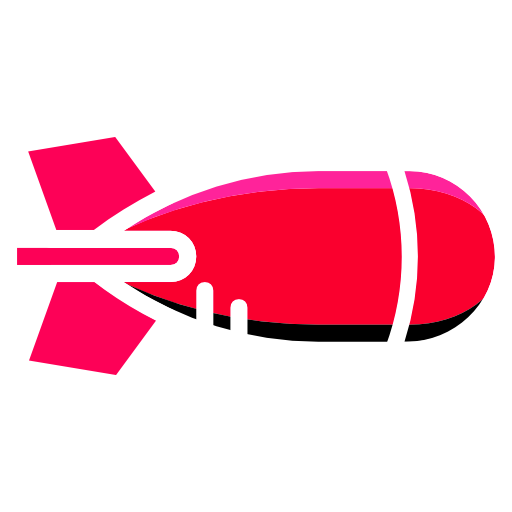
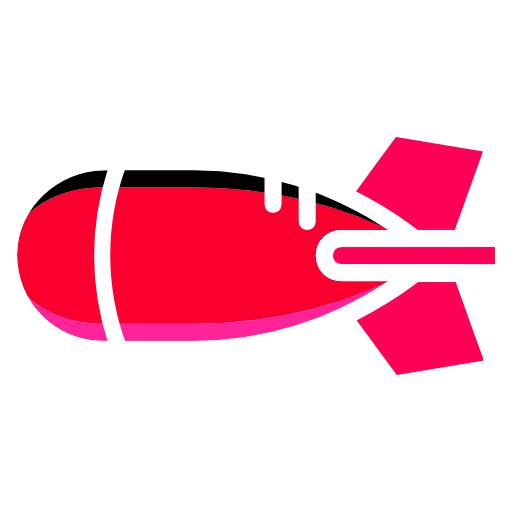
player bombs firing

Changed region(s): [[0.0312, 0.25, 0.9688, 0.75]]

diff --git a/src/HonkPooper/HonkPooper/MainPage.xaml.cs b/src/HonkPooper/HonkPooper/MainPage.xaml.cs
@@ -93,11 +93,118 @@ namespace HonkPooper
 
             if (_controller.IsAttacking)
             {
-                GeneratePlayerBombGroundInScene();
+                if (_scene.Children.OfType<Boss>().Any(x => x.IsAnimating && x.IsAttacking))
+                {
+                    GeneratePlayerBombInScene();
+                }
+                else
+                {
+                    GeneratePlayerBombGroundInScene();
+                }
+                
                 _controller.IsAttacking = false;
             }
 
             return true;
+        }
+
+        #endregion
+
+        #region PlayerBomb
+
+        public bool SpawnPlayerBombsInScene()
+        {
+            for (int i = 0; i < 3; i++)
+            {
+                PlayerBomb bomb = new(
+                    animateAction: AnimatePlayerBomb,
+                    recycleAction: RecyclePlayerBomb,
+                    downScaling: _scene.DownScaling);
+
+                bomb.SetPosition(
+                    left: -500,
+                    top: -500,
+                    z: 7);
+
+                _scene.AddToScene(bomb);
+
+                SpawnDropShadowInScene(source: bomb);
+            }
+
+            return true;
+        }
+
+        public bool GeneratePlayerBombInScene()
+        {
+            if (_scene.Children.OfType<Boss>().Any(x => x.IsAnimating && x.IsAttacking) &&
+                _scene.Children.OfType<PlayerBomb>().FirstOrDefault(x => x.IsAnimating == false) is PlayerBomb bomb)
+            {
+                bomb.Reset();
+                bomb.IsAnimating = true;
+                bomb.AwaitingPop = true;
+
+                bomb.SetRotation(33);
+
+                bomb.Reposition(
+                    Player: _player,
+                    downScaling: _scene.DownScaling);
+
+                SyncDropShadow(bomb);
+
+                Console.WriteLine("Player Bomb dropped.");
+
+                return true;
+            }
+
+            return false;
+        }
+
+        public bool AnimatePlayerBomb(Construct bomb)
+        {
+            PlayerBomb playerBomb = bomb as PlayerBomb;
+
+            var speed = _scene.Speed + bomb.SpeedOffset;
+
+            MoveConstruct(construct: bomb, speed: speed, isReverse: true);
+
+            if (playerBomb.IsBlasting)
+            {
+                bomb.Expand();
+                bomb.Fade(0.02);
+
+                DropShadow dropShadow = _scene.Children.OfType<DropShadow>().First(x => x.Id == bomb.Id);
+                dropShadow.Opacity = bomb.Opacity;
+
+            }
+            else
+            {
+                if (_scene.Children.OfType<Boss>().FirstOrDefault(x => x.IsAnimating && x.IsAttacking) is Boss boss)
+                {
+                    if (playerBomb.GetCloseHitBox().IntersectsWith(boss.GetCloseHitBox()))
+                        playerBomb.SetBlast();
+                }
+            }
+
+            return true;
+        }
+
+        public bool RecyclePlayerBomb(Construct bomb)
+        {
+            var hitbox = bomb.GetHitBox();
+
+            // if bomb is blasted and faed or goes out of scene bounds
+            if (bomb.IsFadingComplete || hitbox.Left > _scene.Width || hitbox.Right < 0 || hitbox.Top < 0 || hitbox.Bottom > _scene.Height)
+            {
+                bomb.IsAnimating = false;
+
+                bomb.SetPosition(
+                    left: -500,
+                    top: -500);
+
+                return true;
+            }
+
+            return false;
         }
 
         #endregion
@@ -143,7 +250,7 @@ namespace HonkPooper
 
                 SyncDropShadow(bomb);
 
-                Console.WriteLine("Bomb dropped.");
+                Console.WriteLine("Player Ground Bomb dropped.");
 
                 return true;
             }
@@ -832,7 +939,7 @@ namespace HonkPooper
 
                 SyncDropShadow(bomb);
 
-                Console.WriteLine("Bomb dropped.");
+                Console.WriteLine("Boss Bomb dropped.");
 
                 return true;
             }
@@ -952,11 +1059,20 @@ namespace HonkPooper
 
         #region Construct
 
-        private void MoveConstruct(Construct construct, double speed)
+        private void MoveConstruct(Construct construct, double speed, bool isReverse = false)
         {
             speed *= _scene.DownScaling;
-            construct.SetLeft(construct.GetLeft() + speed);
-            construct.SetTop(construct.GetTop() + speed * construct.IsometricDisplacement);
+
+            if (isReverse)
+            {
+                construct.SetLeft(construct.GetLeft() - speed);
+                construct.SetTop(construct.GetTop() - speed * construct.IsometricDisplacement);
+            }
+            else
+            {
+                construct.SetLeft(construct.GetLeft() + speed);
+                construct.SetTop(construct.GetTop() + speed * construct.IsometricDisplacement);
+            }
         }
 
         #endregion
@@ -1001,7 +1117,7 @@ namespace HonkPooper
                 generationAction: () => { return true; },
                 spawnAction: SpawnPlayerInScene);
 
-            Generator bombs = new(
+            Generator playerGroundBombs = new(
                 generationDelay: 0,
                 generationAction: () => { return true; },
                 spawnAction: SpawnPlayerBombGroundsInScene);
@@ -1023,6 +1139,12 @@ namespace HonkPooper
                generationAction: GenerateBossBombInScene,
                spawnAction: SpawnBossBombsInScene);
 
+
+            Generator playerBombs = new(
+               generationDelay: 0,
+               generationAction: () => { return true; },
+               spawnAction: SpawnPlayerBombsInScene);
+
             _scene.AddToScene(treeBottoms);
             _scene.AddToScene(treeTops);
 
@@ -1030,8 +1152,9 @@ namespace HonkPooper
             _scene.AddToScene(vehicles);
 
             _scene.AddToScene(player);
+            _scene.AddToScene(playerBombs);
+            _scene.AddToScene(playerGroundBombs);            
 
-            _scene.AddToScene(bombs);
             _scene.AddToScene(clouds);
 
             _scene.AddToScene(bosses);

diff --git a/src/HonkPooper/HonkPooper/Constructs/PlayerBomb.cs b/src/HonkPooper/HonkPooper/Constructs/PlayerBomb.cs
@@ -5,7 +5,7 @@ using Microsoft.UI.Xaml.Controls;
 
 namespace HonkPooper
 {
-    public partial class BossBomb : Construct
+    public partial class PlayerBomb : Construct
     {
         #region Fields
 
@@ -18,19 +18,19 @@ namespace HonkPooper
 
         #region Ctor
 
-        public BossBomb(
+        public PlayerBomb(
            Func<Construct, bool> animateAction,
            Func<Construct, bool> recycleAction,
            double downScaling)
         {
             _random = new Random();
 
-            _bomb_uris = Constants.CONSTRUCT_TEMPLATES.Where(x => x.ConstructType == ConstructType.BOSS_BOMB).Select(x => x.Uri).ToArray();
+            _bomb_uris = Constants.CONSTRUCT_TEMPLATES.Where(x => x.ConstructType == ConstructType.PLAYER_BOMB).Select(x => x.Uri).ToArray();
             _bomb_blast_uris = Constants.CONSTRUCT_TEMPLATES.Where(x => x.ConstructType == ConstructType.BOMB_BLAST).Select(x => x.Uri).ToArray();
 
-            var size = Constants.CONSTRUCT_SIZES.FirstOrDefault(x => x.ConstructType == ConstructType.BOSS_BOMB);
+            var size = Constants.CONSTRUCT_SIZES.FirstOrDefault(x => x.ConstructType == ConstructType.PLAYER_BOMB);
 
-            ConstructType = ConstructType.BOSS_BOMB;
+            ConstructType = ConstructType.PLAYER_BOMB;
 
             var width = size.Width * downScaling;
             var height = size.Height * downScaling;
@@ -64,11 +64,11 @@ namespace HonkPooper
 
         #region Methods
 
-        public void Reposition(Boss boss, double downScaling)
+        public void Reposition(Player Player, double downScaling)
         {
             SetPosition(
-                left: (boss.GetLeft() + boss.Width / 2) - Width / 2,
-                top: boss.GetBottom() - (40 * downScaling),
+                left: (Player.GetLeft() + Player.Width / 2) - Width / 2,
+                top: Player.GetBottom() - (40 * downScaling),
                 z: 7);
         }
 

diff --git a/src/HonkPooper/HonkPooper/Constants.cs b/src/HonkPooper/HonkPooper/Constants.cs
@@ -54,9 +54,9 @@ namespace HonkPooper
             new (ConstructType.PLAYER, new Uri("ms-appx:///HonkPooper/Assets/Images/player_1.png")),
             new (ConstructType.PLAYER, new Uri("ms-appx:///HonkPooper/Assets/Images/player_2.png")),
 
-            //new (ConstructType.PLAYER_BOMB, new Uri("ms-appx:///HonkPooper/Assets/Images/poop_1.png")),
-            //new (ConstructType.PLAYER_BOMB, new Uri("ms-appx:///HonkPooper/Assets/Images/poop_2.png")),
-            //new (ConstructType.PLAYER_BOMB, new Uri("ms-appx:///HonkPooper/Assets/Images/poop_3.png")),
+            new (ConstructType.PLAYER_BOMB, new Uri("ms-appx:///HonkPooper/Assets/Images/player_bomb_1.png")),
+            new (ConstructType.PLAYER_BOMB, new Uri("ms-appx:///HonkPooper/Assets/Images/player_bomb_2.png")),
+            new (ConstructType.PLAYER_BOMB, new Uri("ms-appx:///HonkPooper/Assets/Images/player_bomb_3.png")),
 
             new (ConstructType.PLAYER_BOMB_GROUND, new Uri("ms-appx:///HonkPooper/Assets/Images/cracker_1.png")),
             new (ConstructType.PLAYER_BOMB_GROUND, new Uri("ms-appx:///HonkPooper/Assets/Images/cracker_2.png")),
